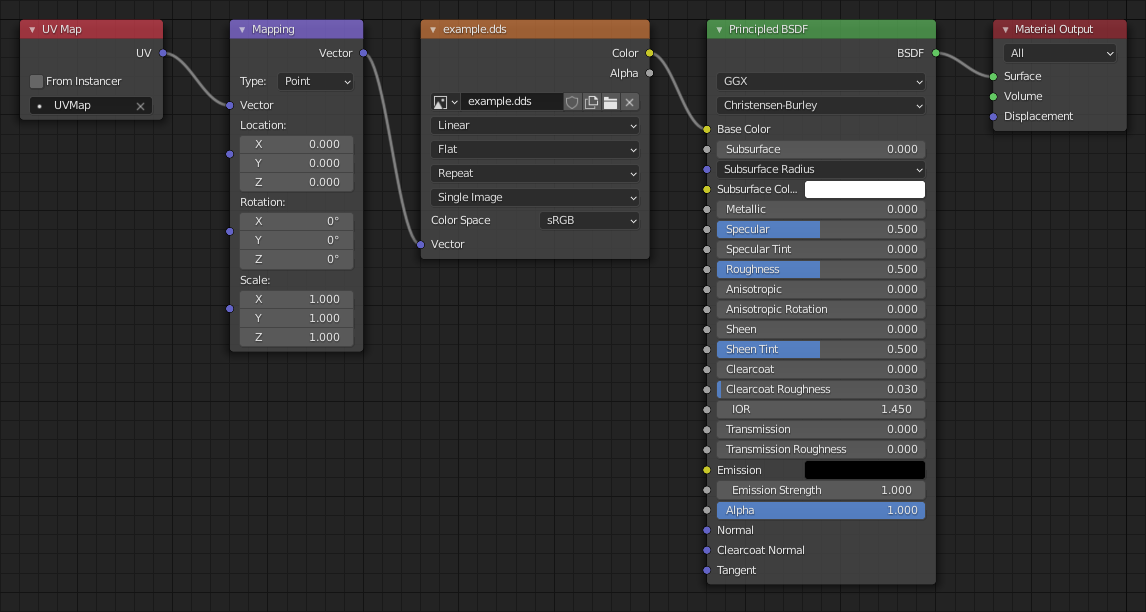
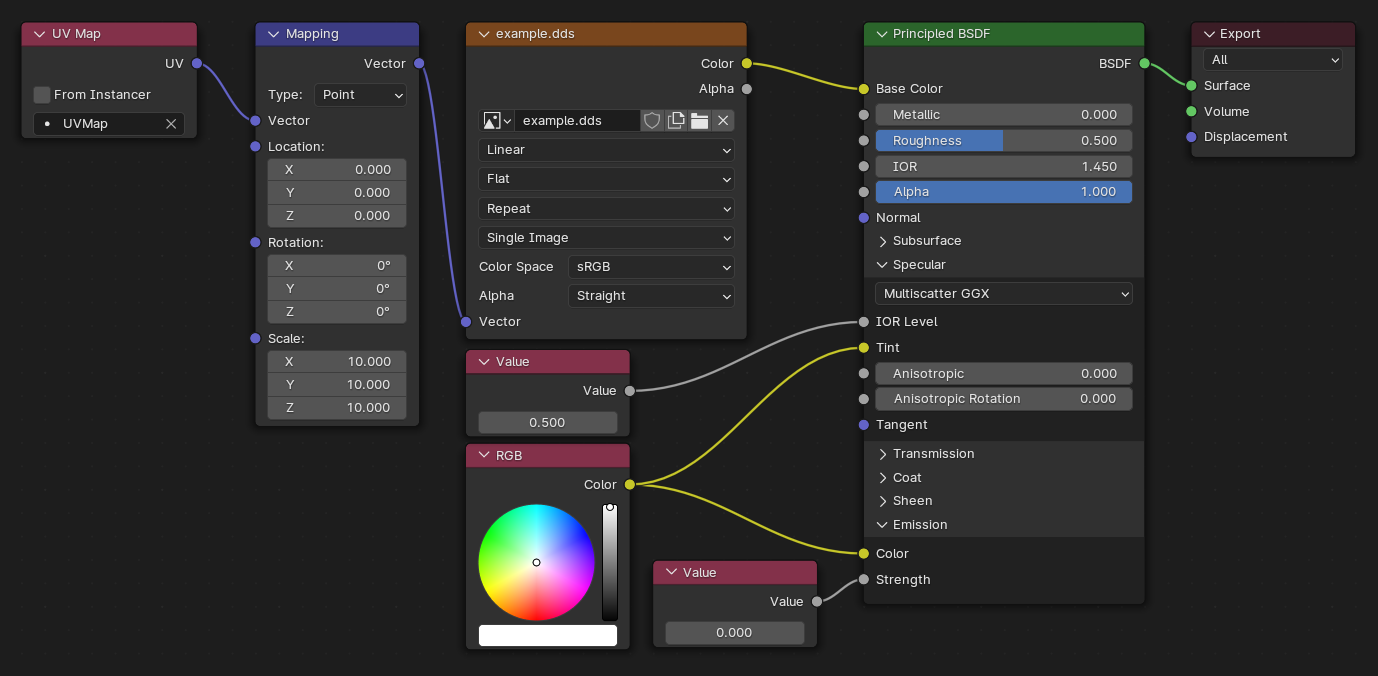
Fix errors caused by 4.0's PrincipledBSDF revamp
Specular is now the product of Specular IOR Level and Specular Tint,
giving control over all three RGB channels.

Emissive is now the product of Emission Color and Emission Strength.

Fixes #15

diff --git a/io_export_o3d/node_shader.py b/io_export_o3d/node_shader.py
@@ -59,9 +59,11 @@ _SOCKETS: dict[tuple[str, str], str] = {
     ('ShaderNodeBsdfPrincipled', 'BSDF'): 'bsdf',
     ('ShaderNodeBsdfPrincipled', 'Alpha'): 'alpha',
     ('ShaderNodeBsdfPrincipled', 'Base Color'): 'base',
-    ('ShaderNodeBsdfPrincipled', 'Emission'): 'emission',
+    ('ShaderNodeBsdfPrincipled', 'Emission Color'): 'emission-color',
+    ('ShaderNodeBsdfPrincipled', 'Emission Strength'): 'emission-strength',
     ('ShaderNodeBsdfPrincipled', 'Roughness'): 'roughness',
-    ('ShaderNodeBsdfPrincipled', 'Specular'): 'specular',
+    ('ShaderNodeBsdfPrincipled', 'Specular IOR Level'): 'specular-strength',
+    ('ShaderNodeBsdfPrincipled', 'Specular Tint'): 'specular-color',
     ('ShaderNodeTexImage', 'Color'): 'texture',
     ('ShaderNodeTexImage', 'Vector'): 'uv',
     ('ShaderNodeUVMap', 'UV'): 'uv_map',
@@ -75,8 +77,10 @@ _LINKS: dict[tuple[str, str], str] = {
     ('bsdf', 'surface'): 'bsdf',
     ('texture', 'base'): 'texture_base',
     ('color', 'base'): 'color_base',
-    ('color', 'emission'): 'color_emission',
-    ('value', 'specular'): 'value_specular',
+    ('color', 'emission-color'): 'color_emission',
+    ('color', 'specular-color'): 'color_specular',
+    ('value', 'emission-strength'): 'value_emission',
+    ('value', 'specular-strength'): 'value_specular',
     ('value', 'roughness'): 'value_roughness',
     ('value', 'alpha'): 'value_alpha',
     ('mapping', 'uv'): 'mapping',
@@ -222,6 +226,8 @@ class MaterialWrapper():
         self._bsdf: ShaderNodeBsdfPrincipled | None = None
         self._color_base: ShaderNodeRGB | None = None
         self._color_emission: ShaderNodeRGB | None = None
+        self._value_emission: ShaderNodeValue | None = None
+        self._color_specular: ShaderNodeRGB | None = None
         self._value_specular: ShaderNodeValue | None = None
         self._value_roughness: ShaderNodeValue | None = None
         self._value_alpha: ShaderNodeValue | None = None
@@ -266,6 +272,8 @@ class MaterialWrapper():
             return
         # try to get emission, specular, roughness and alpha nodes
         self._color_emission = get_node('color_emission', self._bsdf)
+        self._value_emission = get_node('value_emission', self._bsdf)
+        self._color_specular = get_node('color_specular', self._bsdf)
         self._value_specular = get_node('value_specular', self._bsdf)
         self._value_roughness = get_node('value_roughness', self._bsdf)
         self._value_alpha = get_node('value_alpha', self._bsdf)
@@ -324,12 +332,23 @@ class MaterialWrapper():
         if not self._bsdf:
             return meshio.ColorRGB(0.0, 0.0, 0.0)
 
-        socket: NodeSocketColor
+        socket_color: NodeSocketColor
         if self._color_emission:
-            socket = self._color_emission.outputs['Color']
+            socket_color = self._color_emission.outputs['Color']
         else:
-            socket = self._bsdf.inputs['Emission']
-        return meshio.ColorRGB._make(socket.default_value[:3])
+            socket_color = self._bsdf.inputs['Emission Color']
+
+        socket_float: NodeSocketFloat
+        if self._value_emission:
+            socket_float = self._value_emission.outputs['Value']
+        else:
+            socket_float = self._bsdf.inputs['Emission Strength']
+
+        return meshio.ColorRGB(
+            socket_float.default_value * socket_color.default_value[0],
+            socket_float.default_value * socket_color.default_value[1],
+            socket_float.default_value * socket_color.default_value[2],
+        )
 
     @property
     def specular(self) -> meshio.ColorRGB:
@@ -344,12 +363,23 @@ class MaterialWrapper():
         if not self._bsdf:
             return meshio.ColorRGB._make(self._material.specular_color)
 
-        socket: NodeSocketFloat
+        socket_float: NodeSocketFloat
         if self._value_specular:
-            socket = self._value_specular.outputs['Value']
+            socket_float = self._value_specular.outputs['Value']
         else:
-            socket = self._bsdf.inputs['Specular']
-        return meshio.ColorRGB._make([socket.default_value]*3)
+            socket_float = self._bsdf.inputs['Specular IOR Level']
+
+        socket_color: NodeSocketColor
+        if self._color_specular:
+            socket_color = self._color_specular.outputs['Color']
+        else:
+            socket_color = self._bsdf.inputs['Specular Tint']
+
+        return meshio.ColorRGB(
+            socket_float.default_value * socket_color.default_value[0],
+            socket_float.default_value * socket_color.default_value[1],
+            socket_float.default_value * socket_color.default_value[2],
+        )
 
     @property
     def power(self) -> float:

diff --git a/io_export_o3d/__init__.py b/io_export_o3d/__init__.py
@@ -45,7 +45,7 @@ bl_info = {
     "description": "Export selected object(s) to an OMSI Mesh file",
     "author": "Nathan Burnham (Road-hog123)",
     "version": (),  # development version
-    "blender": (3, 2, 0),
+    "blender": (4, 0, 0),
     "location": "File > Export > OMSI Mesh (.o3d)",
     "warning": "Development version - may contain major bugs!",
     "doc_url": "https://github.com/Road-hog123/blender-omsi-exporter",

diff --git a/.github/README.md b/.github/README.md
@@ -91,8 +91,8 @@ node. The parameters of the mesh materials are mapped to the shader node as
 such:
 
 - Diffuse (RGBA): Base Color (RGB) and Alpha (A) inputs†
-- Specular (RGB): Specular input (greyscale)
-- Emissive (RGB): Emission input
+- Specular (RGB): Specular Tint input multiplied by Specular IOR Level input
+- Emissive (RGB): Emission Color input multiplied by Emission Strength input
 - Power: Roughness input, 0-1 converted to 1000-0
 - Texture: Image Texture node connected to Base Color input‡
 
